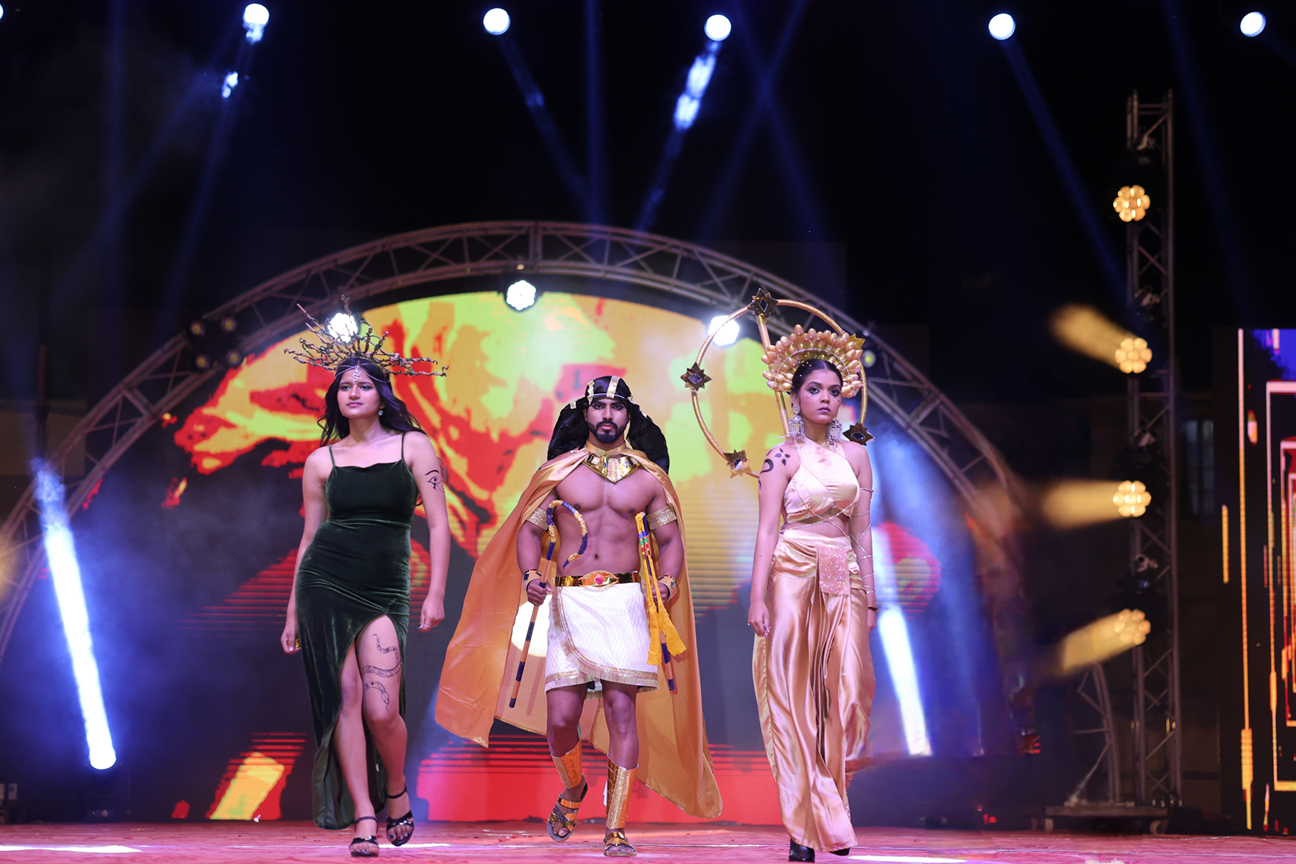
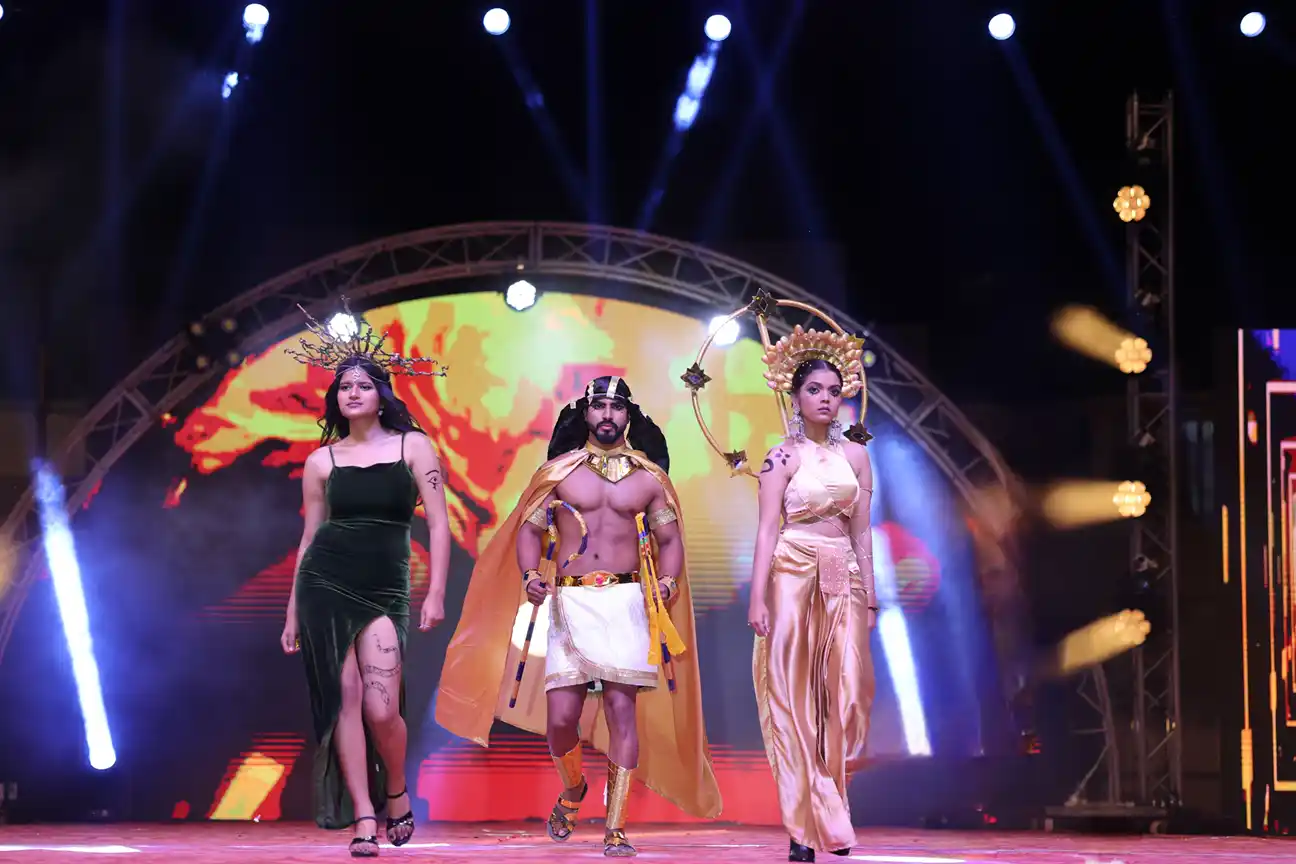
Images compressod and navbar bug fixed

diff --git a/component/Navbar/Component/NavbarDesktop.js b/component/Navbar/Component/NavbarDesktop.js
@@ -52,13 +52,13 @@ function NavbarDesktop({
     <>
       {isChecked && (
         <div
-          className={`hidden mdNavbar:block w-[440px] absolute top-0 h-screen shadow-2xl z-50 bg-white ${
+          className={`hidden pointer-events-auto mdNavbar:block w-[440px] absolute top-0 h-screen shadow-2xl z-50 bg-white ${
             isChecked
               ? "animate-translateLeftMenu opacity-100 left-0"
               : "animate-translateRightMenu opacity-0 left-[-100%]"
           }`}
         >
-          <div className="w-full h-[calc(100vh-280px)] relative top-[155px] overflow-auto">
+          <div className="w-full h-[calc(100vh-280px)] relative top-[120px] overflow-auto">
             {sitemap.map((item, index) => (
               <div
                 className="border-t last:border-b border-[#C5C5C5]   flex flex-col w-full h-fit"
@@ -115,7 +115,7 @@ function NavbarDesktop({
 
       {activeLink !== null && (
         <div
-          className={`hidden mdNavbar:block w-[440px] min-w-[440px] bg-white absolute top-0 h-screen overflow-y-scroll ${
+          className={`hidden pointer-events-auto mdNavbar:block w-[440px] min-w-[440px] bg-white absolute top-0 h-screen overflow-y-scroll ${
             nestedLinksVisible
               ? "animate-translateLeftMenu left-[440px]"
               : "animate-translateRightMenu -left-full"

diff --git a/component/Navbar/Component/NavbarMobile.js b/component/Navbar/Component/NavbarMobile.js
@@ -11,7 +11,7 @@ function NavbarMobile({ isChecked, utmParams }) {
   const [showSubSubSubHeaders, setShowSubSubSubHeaders] = useState();
   return (
     <div
-      className={`block mdNavbar:hidden absolute w-full max-w-[500px] top-0 bg-white h-screen ${
+      className={`block mdNavbar:hidden pointer-events-auto absolute w-full max-w-[500px] top-0 bg-white h-screen ${
         isChecked
           ? "animate-translateLeftMenu left-0 block"
           : "animate-translateRightMenu left-[-100%] hidden"

diff --git a/component/Navbar/Navbar.js b/component/Navbar/Navbar.js
@@ -109,8 +109,8 @@ function Navbar({
         </button>
       </div>
       <div
-        className={`mdNavbar:px-10 w-full h-full py-2 ${
-          !scrolled ? "md:bg-[#007A83] relative" : ""
+        className={`mdNavbar:px-10 w-full relative h-full py-2 ${
+          !scrolled ? "md:bg-[#007A83] " : ""
         }  flex flex-col justify-center`}
       >
         {/* top bar */}
